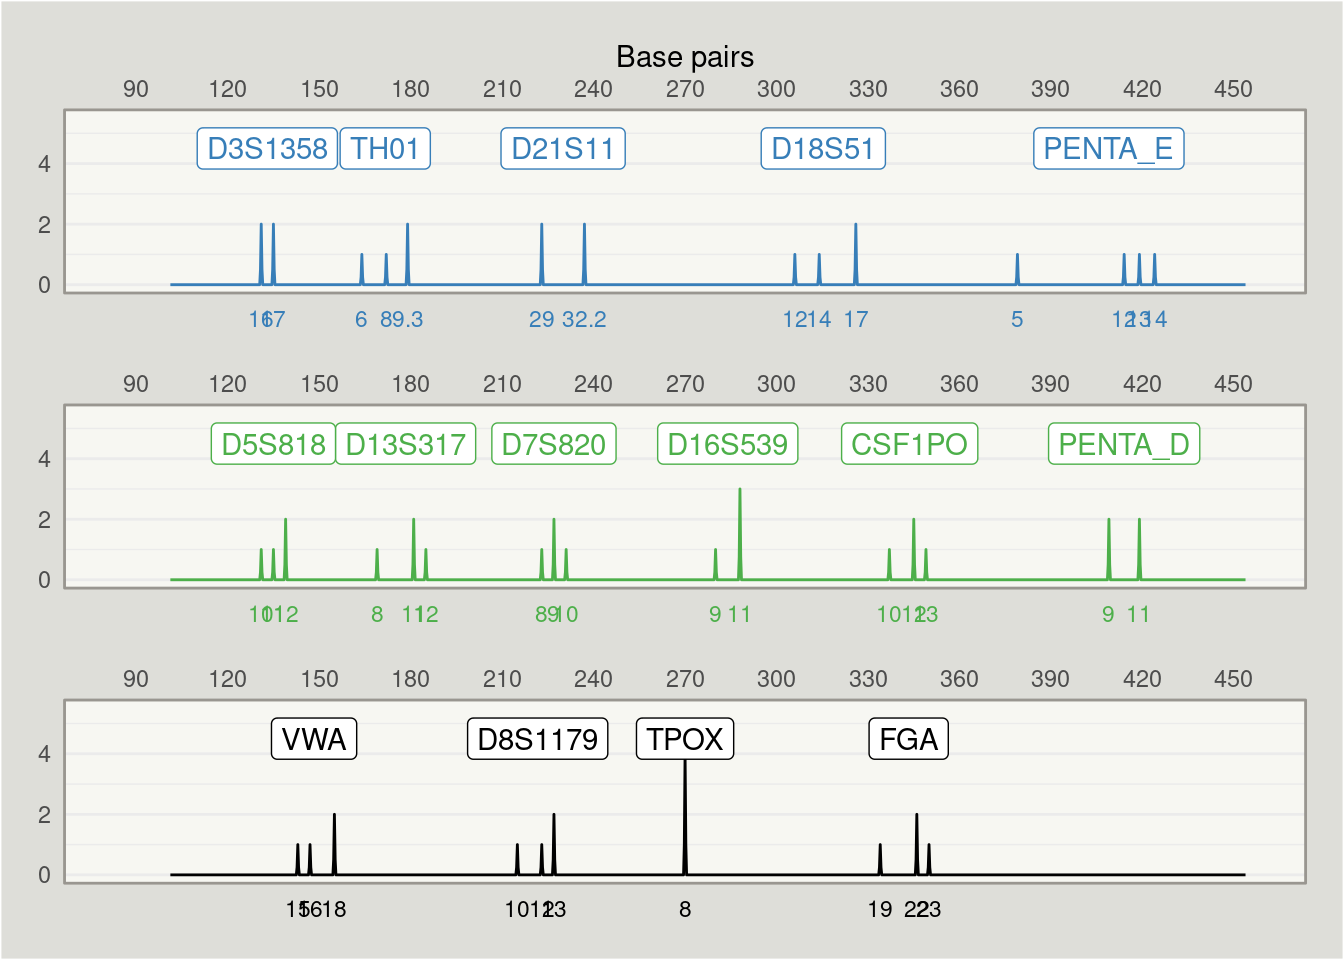
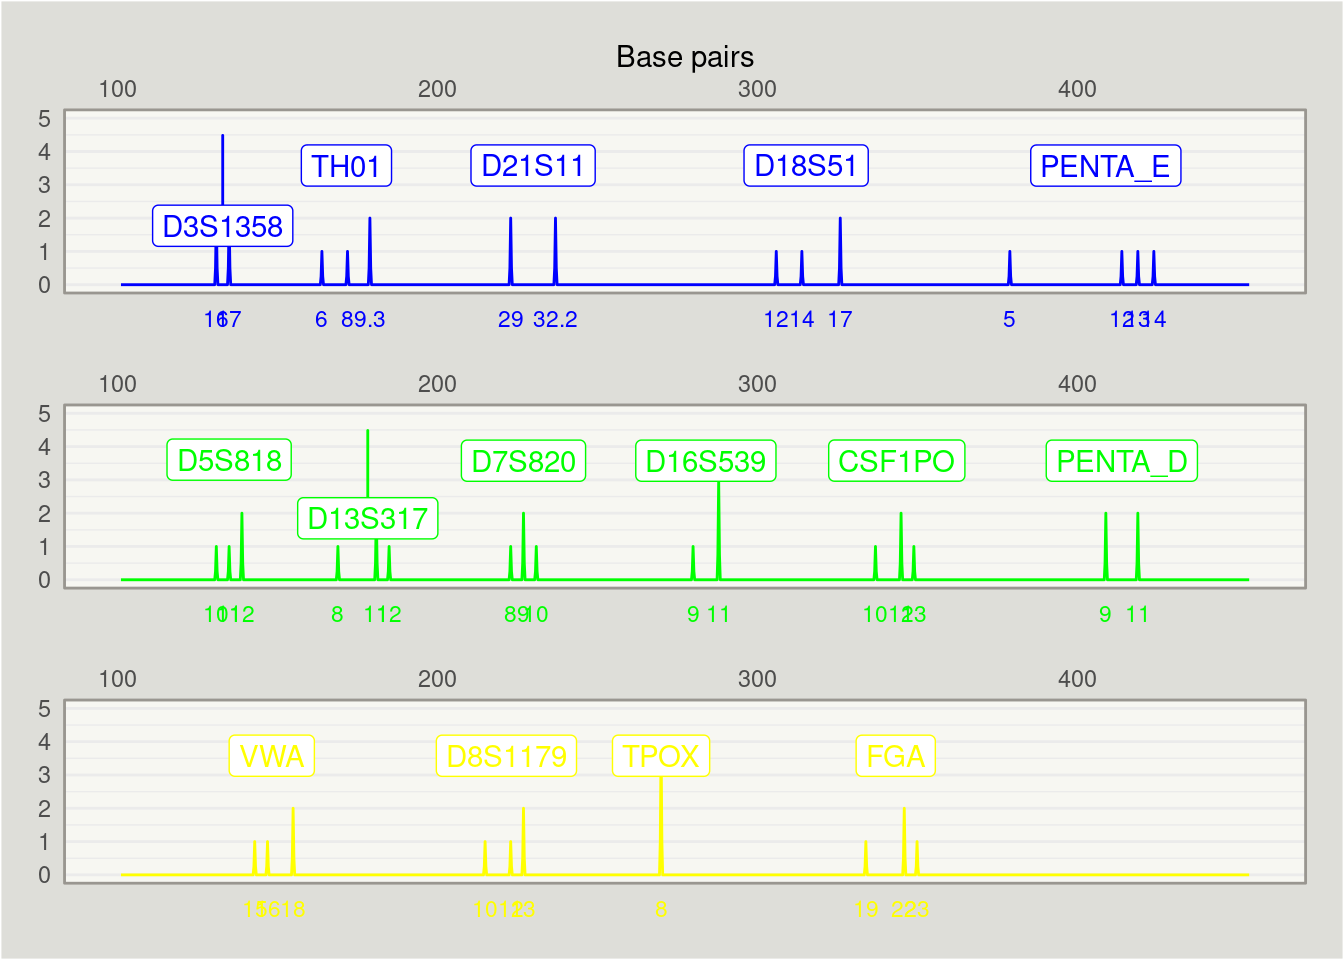
Updated vignette

diff --git a/README.md b/README.md
@@ -45,19 +45,34 @@ dplyr::glimpse(profile_manager$profile_data)
 #> Rows: 40
 #> Columns: 4
 #> $ locus  <chr> "CSF1PO", "CSF1PO", "CSF1PO", "D13S317", "D13S317", "D13S317", …
-#> $ colour <chr> "green", "green", "green", "green", "green", "green", "green", …
+#> $ colour <fct> green, green, green, green, green, green, green, green, blue, b…
 #> $ allele <dbl> 10.0, 12.0, 13.0, 8.0, 11.0, 12.0, 9.0, 11.0, 12.0, 14.0, 17.0,…
 #> $ n      <int> 1, 2, 1, 1, 2, 1, 1, 3, 1, 1, 2, 2, 2, 2, 2, 1, 1, 2, 1, 2, 1, …
 
 # Use the ProfileManager object to fetch data tables from STRBase
-# (fetches tables for all loci in the profile data by default), 
-# and automatically match base pair data with the profile data
+# (fetches tables for all loci in the profile data by default).
+
+# You can specify which loci to fetch...
+profile_manager$fetch_strbase_tables(loci = c("CSF1PO", "D13S317"))
+#> Fetching CSF1PO...   [1/2]
+#> Fetching D13S317...  [2/2]
+
+# ...or how many...
+profile_manager$fetch_strbase_tables(n = 5)
+#> CSF1PO is already fetched & will be skipped (run with `refetch = TRUE` if intentional)
+#> D13S317 is already fetched & will be skipped (run with `refetch = TRUE` if intentional)
+#> Fetching D16S539...  [3/5]
+#> Fetching D18S51...   [4/5]
+#> Fetching D21S11...   [5/5]
+
+# ...or just all of the loci in the data. Tables that have already been
+# fetched are automatically skipped unless we add the argument `refetch = TRUE`
 profile_manager$fetch_strbase_tables()
-#> Fetching CSF1PO...   [1/15]
-#> Fetching D13S317...  [2/15]
-#> Fetching D16S539...  [3/15]
-#> Fetching D18S51...   [4/15]
-#> Fetching D21S11...   [5/15]
+#> CSF1PO is already fetched & will be skipped (run with `refetch = TRUE` if intentional)
+#> D13S317 is already fetched & will be skipped (run with `refetch = TRUE` if intentional)
+#> D16S539 is already fetched & will be skipped (run with `refetch = TRUE` if intentional)
+#> D18S51 is already fetched & will be skipped (run with `refetch = TRUE` if intentional)
+#> D21S11 is already fetched & will be skipped (run with `refetch = TRUE` if intentional)
 #> Fetching D3S1358...  [6/15]
 #> Fetching D5S818...   [7/15]
 #> Fetching D7S820...   [8/15]
@@ -68,9 +83,11 @@ profile_manager$fetch_strbase_tables()
 #> Fetching TH01...     [13/15]
 #> Fetching TPOX...     [14/15]
 #> Fetching VWA...      [15/15]
-profile_manager$extract_basepairs()
 
-# Use plotting method to make a nice-looking ggplot2 plot...
+# Next, we can match the STRbase with the profile data, using a specific multiplex
+profile_manager$extract_basepairs(multiplex = "PowerPlex 16")
+
+# Finally, we can use plotting method to make a nice-looking ggplot2 plot...
 profile_manager$profile_plot()
 ```
 
@@ -78,7 +95,15 @@ profile_manager$profile_plot()
 
 ``` r
 
-# ...equivalent to the following code
+# Change colours if necessary
+profile_manager$profile_plot(col = c(blue = "blue", green = "green", yellow = "yellow"))
+```
+
+<img src="man/figures/README-example-2.png" width="100%" />
+
+``` r
+
+# (the plotting is equivalent to the following code)
 
 cols <- c(blue = "#377eb8", green = "#4daf4a", yellow = "black")
 
@@ -87,27 +112,30 @@ profile_data <- profile_manager$profile_data
 profile_data$colour <- factor(profile_data$colour, levels = names(cols))
 max_count <- max(profile_data$n)
 
-p <- ggplot(profile_data, aes(x = base_pairs, y = n, col = colour, label = allele)) +
-  geom_line(stat = "allele_spike") +
-  geom_label(aes(group = locus, y = max(n) + 0.5, label = locus),
-             stat = "summary", fun = "mean", orientation = "y") +
-  scale_x_continuous(position = "top") +
-  scale_color_manual(values = cols) +
-  ylim(0, max_count + 1) +
-  facet_wrap(~ colour, nrow = 3, scales = "free_x") +
-  labs(x = "Base pairs", y = NULL) +
-  coord_cartesian(clip = "off")
-  guides(col = "none") +
-  theme_bw() +
-  theme(axis.ticks = element_blank(),
-        strip.background = element_blank(),
-        strip.text = element_blank(),
-        panel.grid.major.x = element_blank(),
-        panel.grid.minor.x  = element_blank(),
-        panel.background = element_rect(fill = '#F7F7F2'),
-        panel.border = element_rect(fill = NA, colour = '#999690'),
-        panel.spacing = unit(2, "lines"),
-        plot.margin = unit(c(1, 1, 2, 1), "lines"),
-        plot.background = element_rect(fill = "#DEDED9"))
-  
+profile_data <- subset(profile_data, !is.na(base_pairs))
+max_count <- max(profile_data$n)
+
+ggplot2::ggplot(profile_data, ggplot2::aes(x = base_pairs, y = n, col = colour)) +
+  ggplot2::geom_line(stat = "allele_spike") +
+  ggrepel::geom_label_repel(ggplot2::aes(group = locus, y = max(n) + 0.5, label = locus),
+             stat = "summary", fun = "mean", orientation = "y", direction = "y") +
+  ggplot2::geom_text(ggplot2::aes(y = -Inf, label = allele), vjust = 2, size = 3) +
+  ggplot2::scale_x_continuous(position = "top") +
+  ggplot2::scale_color_manual(values = col[levels(profile_data$colour)]) +
+  ggplot2::ylim(0, max_count + 1) +
+  ggplot2::coord_cartesian(clip = "off") +
+  ggplot2::facet_wrap(~ colour, nrow = 3, scales = "free_x") +
+  ggplot2::labs(x = "Base pairs", y = NULL) +
+  ggplot2::guides(col = "none") +
+  ggplot2::theme_bw() +
+  ggplot2::theme(axis.ticks = ggplot2::element_blank(),
+        strip.background = ggplot2::element_blank(),
+        strip.text = ggplot2::element_blank(),
+        panel.grid.major.x = ggplot2::element_blank(),
+        panel.grid.minor.x  = ggplot2::element_blank(),
+        panel.background = ggplot2::element_rect(fill = '#F7F7F2'),
+        panel.border = ggplot2::element_rect(fill = NA, colour = '#999690'),
+        panel.spacing = ggplot2::unit(2, "lines"),
+        plot.margin = ggplot2::unit(c(1, 1, 2, 1), "lines"),
+        plot.background = ggplot2::element_rect(fill = "#DEDED9"))
 ```
